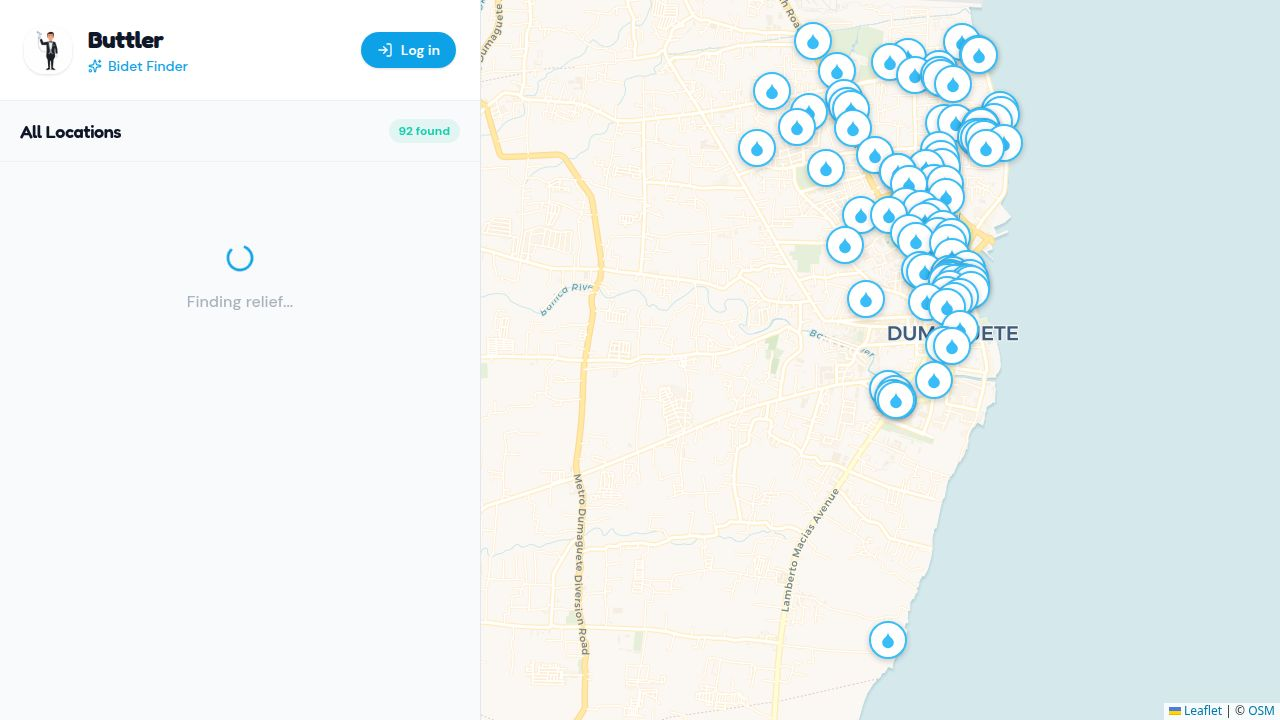
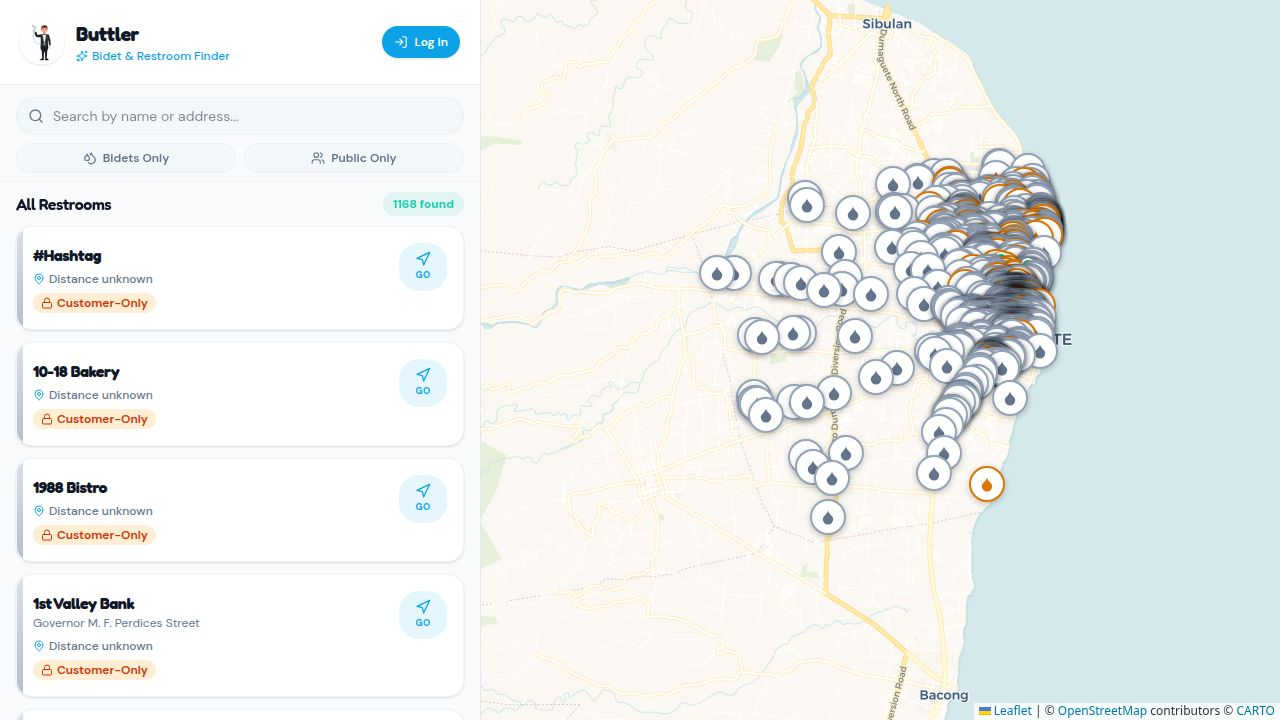
Improve application routing and PWA service worker configuration
Configure Vite dev server to proxy /api requests to the Express server, add a catch-all route in Express to redirect unmatched requests to the frontend, and update the Workbox service worker configuration to exclude /api routes from navigation fallbacks.

Replit-Commit-Author: Agent
Replit-Commit-Session-Id: bd379d6e-f272-4abb-90c5-2ea1df8315bb
Replit-Commit-Checkpoint-Type: full_checkpoint
Replit-Commit-Event-Id: ae263763-aa7b-4704-ac3e-6a9426b1801c
Replit-Commit-Screenshot-Url: https://storage.googleapis.com/screenshot-production-us-central1/f341ba4f-cdae-4142-9bc5-1d92b95ffeff/bd379d6e-f272-4abb-90c5-2ea1df8315bb/34cYaSV
Replit-Helium-Checkpoint-Created: true

diff --git a/artifacts/buttler/vite.config.ts b/artifacts/buttler/vite.config.ts
@@ -37,9 +37,9 @@ export default defineConfig({
       registerType: "autoUpdate",
       includeAssets: ["icons/*.png", "images/**/*"],
       manifest: {
-        name: "Buttler: Bidet Finder",
+        name: "Buttler: Bidet & Restroom Finder",
         short_name: "Buttler",
-        description: "Find the nearest bidet-equipped locations in Dumaguete City, Philippines.",
+        description: "Find the nearest bidet-equipped and public restroom locations in Dumaguete City, Philippines.",
         theme_color: "#38bdf8",
         background_color: "#ffffff",
         display: "standalone",
@@ -63,6 +63,12 @@ export default defineConfig({
       },
       workbox: {
         globPatterns: ["**/*.{js,css,html,ico,png,svg,woff2}"],
+        // Prevent the service worker from intercepting API routes.
+        // This is critical: /api/* paths (login, callback, logout) must
+        // reach the Express server directly — the SW must never serve
+        // a cached page in their place.
+        navigateFallback: "index.html",
+        navigateFallbackDenylist: [/^\/api\//],
         runtimeCaching: [
           {
             urlPattern: /^https:\/\/[a-z]\.basemaps\.cartocdn\.com\/.*/i,
@@ -76,10 +82,10 @@ export default defineConfig({
             },
           },
           {
-            urlPattern: /\/api\/bidets/,
+            urlPattern: /\/api\/restrooms/,
             handler: "NetworkFirst",
             options: {
-              cacheName: "bidet-data",
+              cacheName: "restroom-data",
               expiration: {
                 maxEntries: 10,
                 maxAgeSeconds: 60 * 60 * 24,
@@ -123,10 +129,25 @@ export default defineConfig({
       strict: true,
       deny: ["**/.*"],
     },
+    // Proxy all /api/* requests to the Express API server in development.
+    // This ensures /api/login, /api/callback, /api/logout etc. reach Express
+    // even without relying solely on the Replit platform proxy.
+    proxy: {
+      "/api": {
+        target: "http://localhost:8080",
+        changeOrigin: true,
+      },
+    },
   },
   preview: {
     port,
     host: "0.0.0.0",
     allowedHosts: true,
+    proxy: {
+      "/api": {
+        target: "http://localhost:8080",
+        changeOrigin: true,
+      },
+    },
   },
 });

diff --git a/artifacts/api-server/src/app.ts b/artifacts/api-server/src/app.ts
@@ -1,4 +1,4 @@
-import express, { type Express } from "express";
+import express, { type Express, type Request, type Response, type NextFunction } from "express";
 import cors from "cors";
 import cookieParser from "cookie-parser";
 import { authMiddleware } from "./middlewares/authMiddleware";
@@ -13,5 +13,13 @@ app.use(express.urlencoded({ extended: true }));
 app.use(authMiddleware);
 
 app.use("/api", router);
+
+// Catch-all for any request that didn't match an /api/* route.
+// In production the Replit platform proxy routes only /api/* here, so this
+// handler only fires for genuinely unmatched API paths.  Redirect the browser
+// to the frontend root so React can take over instead of returning a blank 404.
+app.use((_req: Request, res: Response, _next: NextFunction) => {
+  res.redirect("/");
+});
 
 export default app;